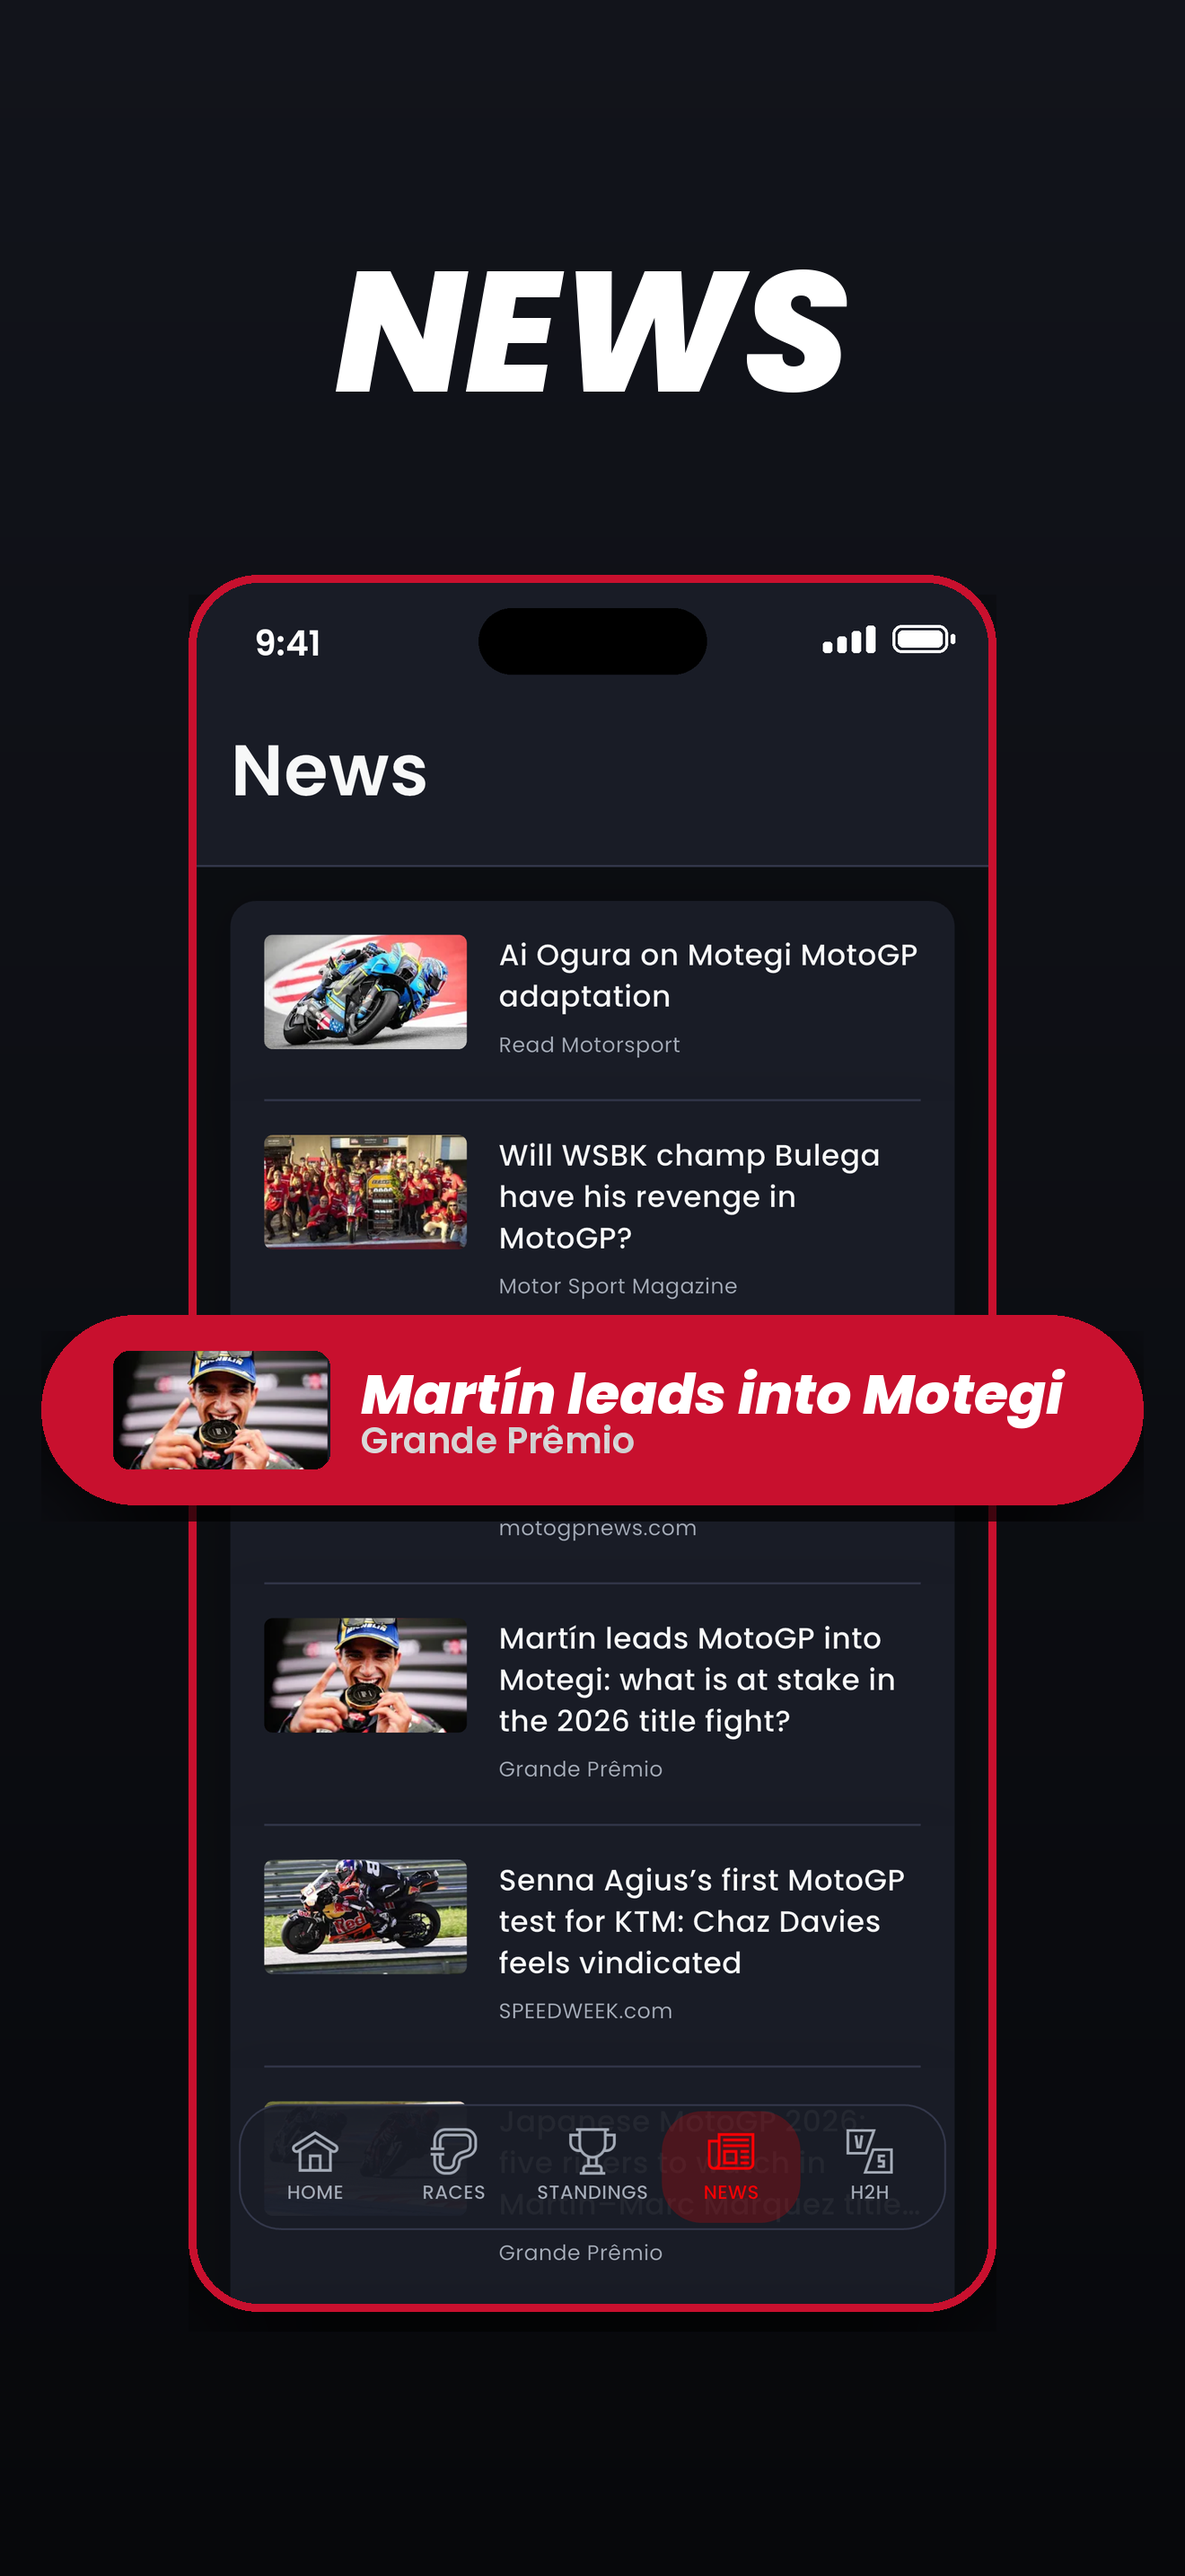
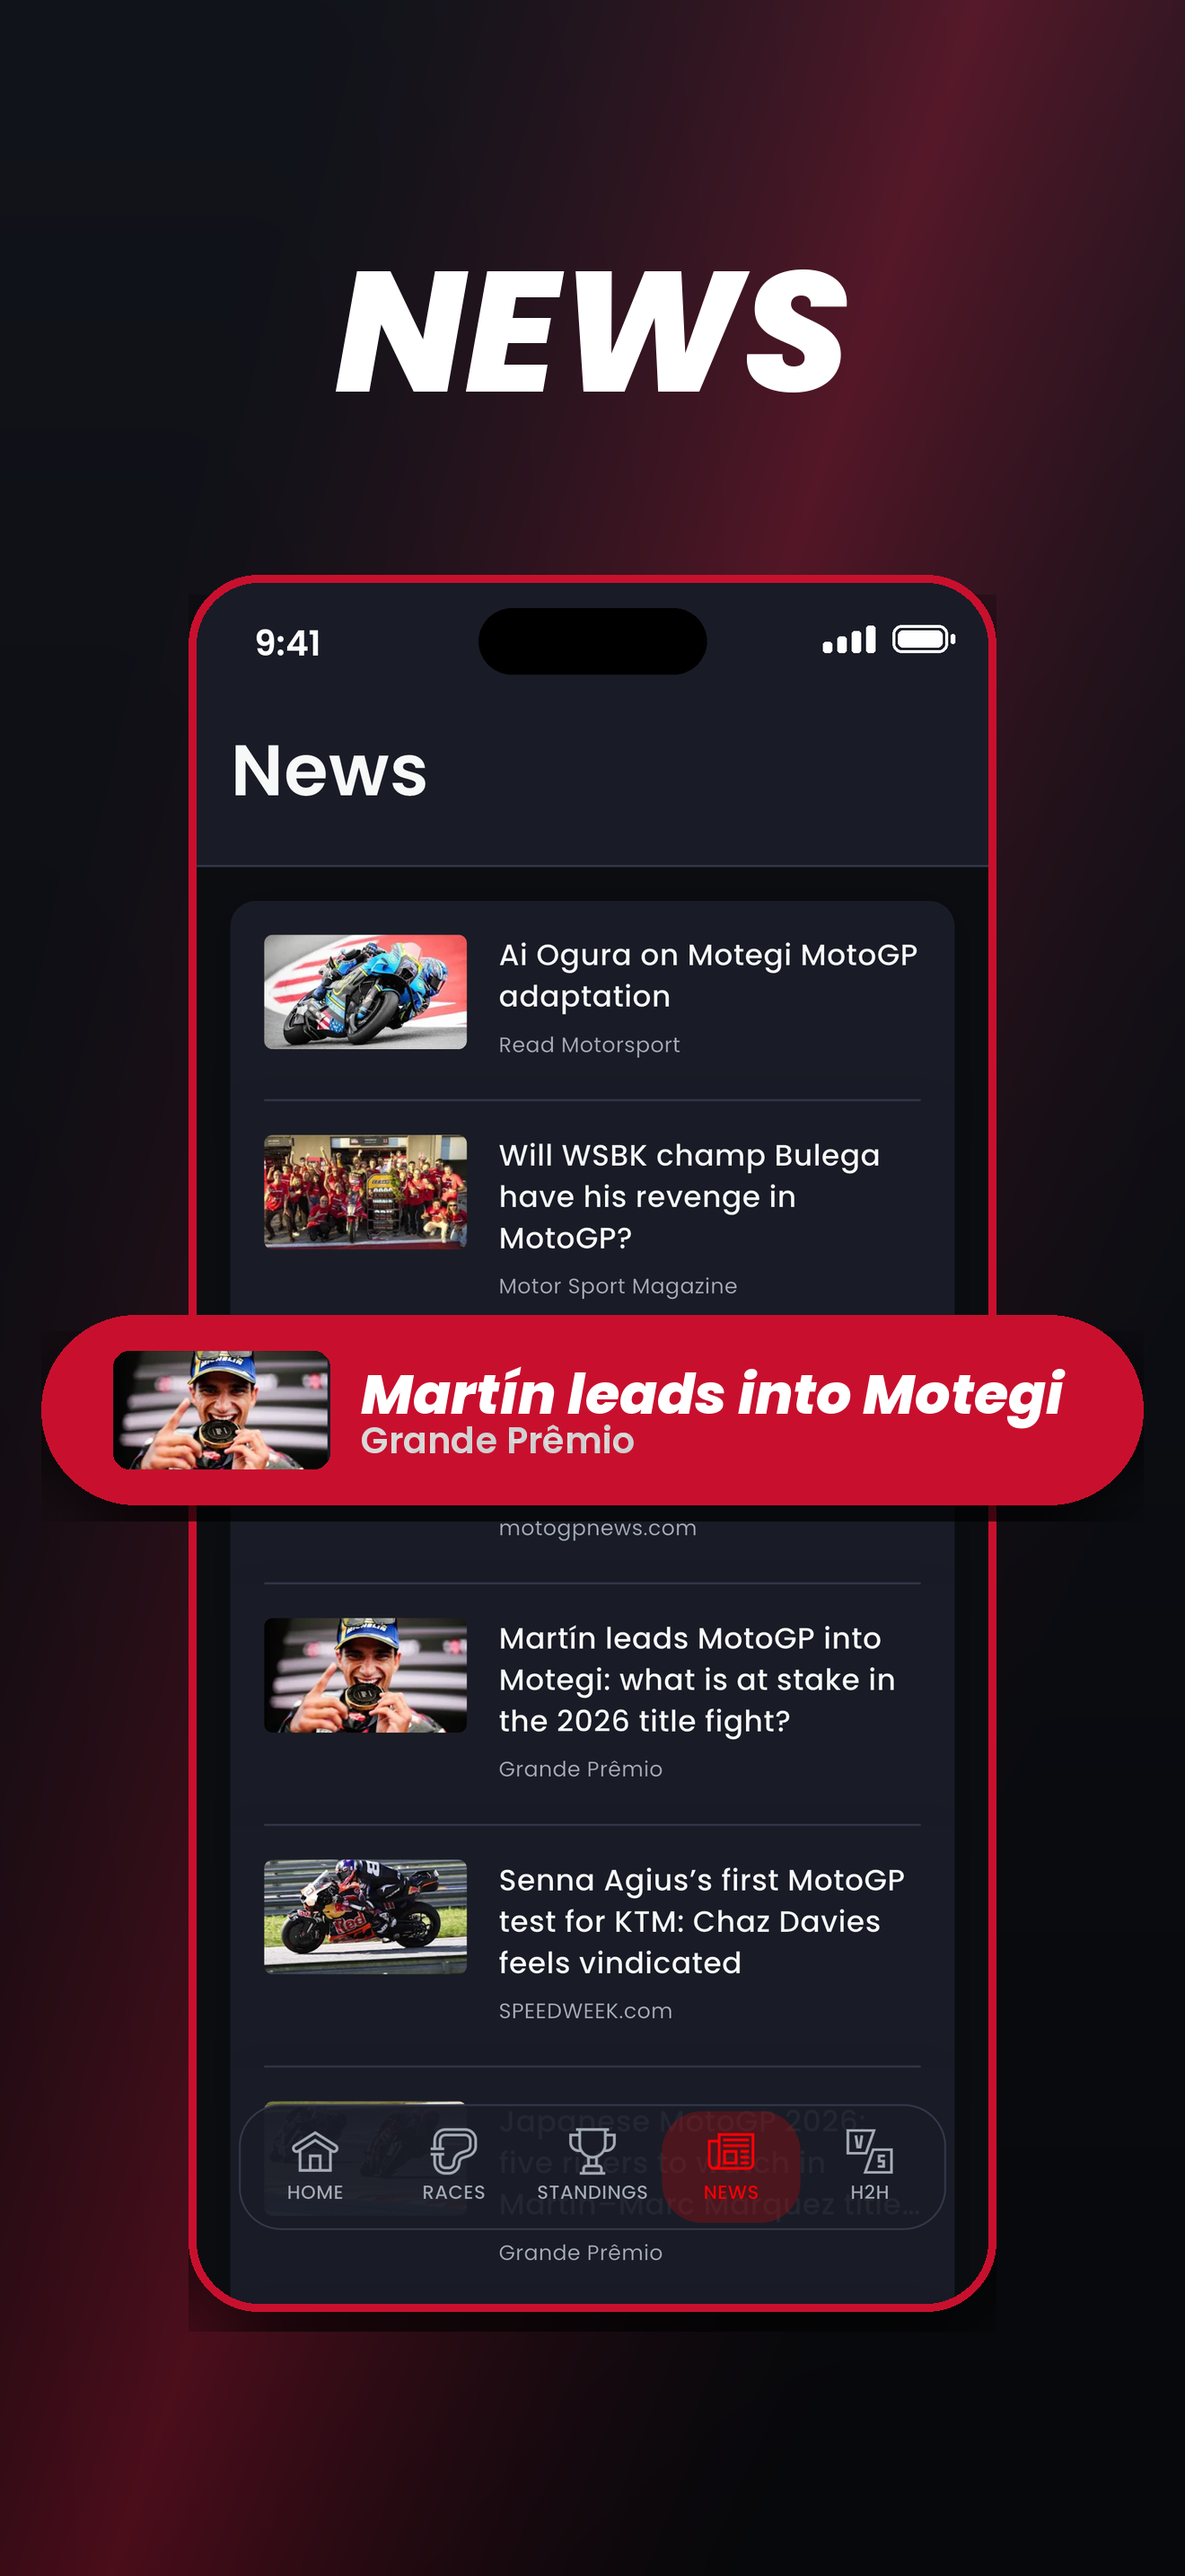
Give the screenshots a designed background
Five canvases behind the phone, selected with --bg: flat, glow, rise,
sweep and vignette. Default is now sweep, a diagonal red band.

The first frames appear in App Store search results at a fraction of
full size, so this is ASO work rather than decoration - flat and glow
are indistinguishable from each other when small, while sweep still
reads as a deliberate design.

Claude-Session: https://claude.ai/code/session_014CLVsmtiqS5tMzJV7xnFiZ

Changed region(s): [[0.4038, 0.0, 1.0, 0.3414], [0.0, 0.5896, 0.4348, 1.0]]

diff --git a/tools/build_screenshots.py b/tools/build_screenshots.py
@@ -13,6 +13,7 @@ import json
 import sys
 from pathlib import Path
 
+import numpy as np
 from PIL import Image, ImageDraw, ImageFilter, ImageFont
 
 W, H = 1320, 2868
@@ -27,12 +28,43 @@ BEZEL = 9                      # red frame thickness
 RADIUS = 78
 
 
-def gradient() -> Image.Image:
-    g = Image.new("RGB", (1, H))
-    for y in range(H):
-        t = y / (H - 1)
-        g.putpixel((0, y), tuple(round(a + (b - a) * t) for a, b in zip(TOP, BOTTOM)))
-    return g.resize((W, H))
+BACKGROUNDS = ("flat", "glow", "rise", "sweep", "vignette")
+
+
+def background(kind: str) -> Image.Image:
+    """Canvas behind the phone. All start from the app's own near-black."""
+    y, x = np.mgrid[0:H, 0:W].astype(np.float32)
+    ny, nx = y / (H - 1), x / (W - 1)
+
+    base = np.zeros((H, W, 3), np.float32)
+    for c, (a, b) in enumerate(zip(TOP, BOTTOM)):
+        base[..., c] = a + (b - a) * ny
+
+    if kind == "flat":
+        out = base
+    elif kind == "glow":
+        # brand-coloured halo centred behind the phone
+        d = np.sqrt(((nx - 0.5) * 1.35) ** 2 + ((ny - 0.46) * 0.95) ** 2)
+        g = np.clip(1 - d / 0.62, 0, 1) ** 2.1
+        out = base + g[..., None] * np.array(RED, np.float32) * 0.46
+    elif kind == "rise":
+        # glow climbing from the bottom edge, so the phone sits in light
+        g = np.clip((ny - 0.42) / 0.58, 0, 1) ** 1.7
+        side = np.clip(1 - np.abs(nx - 0.5) * 1.5, 0, 1)
+        out = base + (g * side)[..., None] * np.array(RED, np.float32) * 0.55
+    elif kind == "sweep":
+        # diagonal band, echoing the livery stripes in the app icon
+        dgn = np.clip(1 - np.abs((nx * 0.75 + ny * 0.55) - 0.62) / 0.42, 0, 1) ** 1.6
+        out = base + dgn[..., None] * np.array(RED, np.float32) * 0.34
+    elif kind == "vignette":
+        d = np.sqrt(((nx - 0.5) * 1.1) ** 2 + ((ny - 0.44) * 0.8) ** 2)
+        lift = np.clip(1 - d / 0.78, 0, 1) ** 1.5
+        out = base * (0.58 + 0.75 * lift[..., None])
+        out += lift[..., None] * np.array(RED, np.float32) * 0.12
+    else:
+        raise ValueError(f"unknown background {kind!r}; pick from {BACKGROUNDS}")
+
+    return Image.fromarray(np.clip(out, 0, 255).astype(np.uint8))
 
 
 def rounded(size, radius, fill) -> Image.Image:
@@ -175,8 +207,8 @@ def render_pill(pill, fonts):
     return card
 
 
-def build(entry, fonts, shots_dir) -> Image.Image:
-    canvas = gradient().convert("RGBA")
+def build(entry, fonts, shots_dir, bg="flat") -> Image.Image:
+    canvas = background(bg).convert("RGBA")
     d = ImageDraw.Draw(canvas)
 
     # headline
@@ -220,6 +252,7 @@ def main(argv=None) -> int:
     p.add_argument("--shots", type=Path, default=Path("store/raw"))
     p.add_argument("-o", "--out-dir", type=Path, default=Path("store/screenshots"))
     p.add_argument("--lang", default="en")
+    p.add_argument("--bg", default="flat", choices=BACKGROUNDS)
     args = p.parse_args(argv)
 
     spec = json.loads(args.manifest.read_text())
@@ -228,7 +261,7 @@ def main(argv=None) -> int:
     out.mkdir(parents=True, exist_ok=True)
 
     for i, entry in enumerate(spec["frames"], 1):
-        img = build(entry, fonts, args.shots)
+        img = build(entry, fonts, args.shots, args.bg)
         dst = out / f"{i:02d}_{entry['headline'].lower()}.png"
         img.save(dst)
         print(f"{dst}  {img.width}x{img.height}")

diff --git a/store/README.md b/store/README.md
@@ -155,6 +155,21 @@ python3 tools/build_screenshots.py --manifest store/frames.json \
 screen each frame uses, its headline and its pill copy. Output is
 `store/screenshots/<lang>/`.
 
+`--bg` picks the canvas behind the phone:
+
+| Value | Look | Notes |
+|---|---|---|
+| `flat` | vertical dark gradient | clean, but reads as empty at thumbnail size |
+| `glow` | brand-red halo behind the phone | premium, subtle — almost indistinguishable from `flat` when small |
+| `rise` | red climbing from the bottom edge | warm, the phone sits in light |
+| **`sweep`** | **diagonal red band** | **current default.** Most distinctive small, which is where the first frames do their work |
+| `vignette` | centre lifted, corners dropped | subtle depth only |
+
+The first one to three frames appear in App Store search results at a fraction
+of full size, so the background is doing ASO work, not only decoration —
+`sweep` was chosen for being legible as a deliberate design at that scale.
+Switching is one flag; nothing else in the build depends on it.
+
 The builder repaints the status bar on every frame. The raw captures were taken
 on a real phone, so one carried a music player expanded in the Dynamic Island
 reading "SHE DOESN'T MIND", the H2H one was on wifi with a different island
